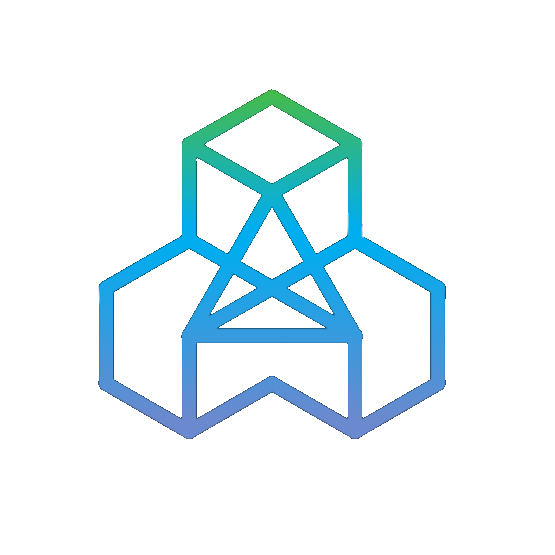
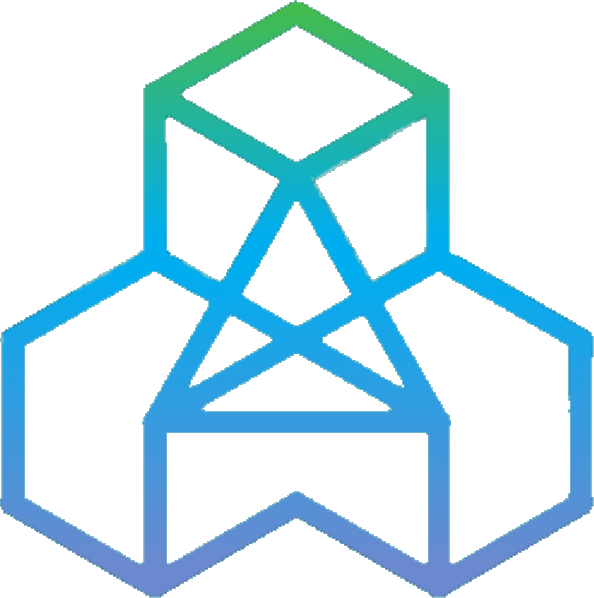
13.0
Added Background color and changed the colors of the logos. Added content to the section boxes.

diff --git a/css/MainStyles.css b/css/MainStyles.css
@@ -522,9 +522,10 @@ ul {
     }
     .header .logo {
         user-select: none;
-        width: 20%;
+        width: 17%;
         float: left;
         transition: .2s;
+        padding: 1%
     }
     .header .logo:hover {
         opacity: .8;
@@ -556,13 +557,15 @@ ul {
         overflow: hidden;
         transition: height .5s ease;
         font-size: 80%;
-        margin-top: 3.7rem;
         left: 0;
-        z-index: 1;
+        z-index: 2;
         top: 34px;
         height: 0;
         box-shadow: 5px 5px 10px rgb(160, 160, 160);
         font-weight: normal;
+    }
+    #submenu {
+        margin-top: 3.31rem;
     }
     ul li:hover > ul, ul li ul:hover {
         z-index: 1;
@@ -585,13 +588,13 @@ ul {
     .grid-container {
         display: grid;
         grid-template-columns: 1fr 1fr 1fr 1fr;
-        grid-template-rows: auto auto auto auto auto auto auto auto;
+        grid-template-rows: auto auto auto auto auto auto;
         overflow-wrap: break-word;
         position: relative;
     }
     .box {
         display: block;
-        padding: 10px;
+        padding: 10px 60px 10px 60px;
         background-color: rgb(207, 207, 207);
         overflow-wrap: break-word;
     }
@@ -607,54 +610,45 @@ ul {
         grid-column: 4;
         grid-row: 1;
     }
-    .about {
+    .space {
         grid-column: 1 / 5;
-        grid-row: 2 / 3;
+        grid-row: 2;
+        visibility: hidden;
+    }
+    .about {
+        grid-column: 2 / 4;
+        grid-row: 3;
     }
     .sec2 {
         grid-column: 2;
-        grid-row: 3;
+        grid-row: 4;
     }
     .sec3 {
         grid-column: 3;
-        grid-row: 3;
-    }
-    .sec4 {
-        grid-column: 2 / 4;
         grid-row: 4;
     }
-    .gallery {
+    .sec4 {
         grid-column: 1 / 5;
-        grid-row: 5; 
-    }
-    .sec5 {
-        grid-column: 2;
-        grid-row: 6;
-    }
-    .sec6 {
-        grid-column: 3;
-        grid-row: 6;
-    }
-    .sec7 {
-        grid-column: 2 / 4;
-        grid-row: 7;
+        grid-row: 5;
+        visibility: hidden;
     }
     .footer {
         grid-column: 1 / 5;
-        grid-row: 8;
+        grid-row: 6;
     }
 
     /* H1 */
     .h1 {
-        text-decoration: underline;
-        padding: 8% 20% 20% 20%;
+        padding: 12% 20% 16% 20%;
         text-align: center;
-        font-size: 400%;
-        color: rgb(0, 0, 0);
+        font-size: 500%;
         font-family: 'Capriola', sans-serif;
         animation-name: fade-in;
         animation-duration: 1s;
         position: relative;
+        background-color: rgb(114, 199, 199);
+        color: white;
+        text-shadow: .5px .5px 2px white;
     }
     @keyframes fade-in {
         from {top: 150px; opacity: 0;}
@@ -662,25 +656,45 @@ ul {
     }
     .img1, .img2 {
         position: relative;
-        top: 100px
+        top: 200px;
+        z-index: 1;
+    }
+    .img1 {
+        animation-name: fade-image;
+        animation-duration: 1s;
+        left: 50px
+    }
+    .img2 {
+        animation-name: fade-image2;
+        animation-duration: 1s;
+        right: 10px
+    }
+    @keyframes fade-image {
+        from {left: -350px; opacity: 0;}
+        to {left: 50px; opacity: 1;}
+    }
+    @keyframes fade-image2 {
+        from {right: -350px; opacity: 0;}
+        to {right: 10px; opacity: 1;}
+    }
+    .space hr {
+        margin: 50px
     }
     /* Boxes */
-    .about, .gallery {
+    .about {
         text-align: center;
         font-size: 300%;
         font-weight: bold;
+        background-color: rgb(92, 148, 175);
     }
     .about h2 {
-        margin: 3px 0
+        margin: 3px 0;
     }
-    .gallery h2 {
-        margin: 15% auto 0 auto
-    }
-    .about hr, .gallery hr {
-        width: 20%;
+    .about hr {
+        width: 30%;
         border: 0;
         border-top: 4px solid black;
-        margin: 0 auto 5% auto
+        margin: 0 auto 3% auto;
     }
     .section {
         text-align: center;
@@ -695,8 +709,22 @@ ul {
         visibility: visible;
         border: 0;
         border-top: 3px solid rgba(110, 110, 110, 0.733);
-        width: 50%;
+        width: 100%;
+        margin: 2% auto 3% auto
     }
+    .section p {
+        font-size: 60%;
+    }
+    .sec2 {
+        background-color: rgb(152, 190, 200)
+    }
+    .sec3 {
+        background-color: rgb(203, 221, 221);
+    }
+    .sec4 hr {
+        margin: 50px
+    }
+    
     /* Footer */
     .footer {
         background-color: rgb(66, 66, 66);

diff --git a/index.html b/index.html
@@ -17,7 +17,7 @@
                 document.getElementById("submenu").style.marginTop = "1.25rem";
               } else {
                 document.getElementById("header").style.fontSize = "225%";
-                document.getElementById("logo").style.width = "20%";
+                document.getElementById("logo").style.width = "17%";
                 document.getElementById("menu").style.top = "15px";
                 document.getElementById("submenu").style.marginTop = "3.7rem";
               }
@@ -44,48 +44,31 @@
         </header>
         <div class="grid-container">
             <div class="img1">
-                <img src="images/Capture.PNG" width="100%">
+                <img src="images/Capture.PNG" width="90%">
             </div>
             <div class="h1">
                 <h1>Hello</h1>
             </div>
             <div class="img2">
-                <img src="images/Capture.PNG" width="100%">
+                <img src="images/Capture.PNG" width="90%">
             </div>
             <div class="about">
                 <h2>About</h2>
                 <hr>
             </div>
             <div class="box section sec2">
-                <h2>About</h2>
+                <h2>Information</h2>
                 <hr>
+                <p>Hello. My name is Jared Lander. I am a student in web development at West-Mec. I can create websites in HTML and CSS for mobile and desktop websites.</p>
             </div>
             <div class="box section sec3">
-                <h2>Location</h2>
+                <h2>Experience</h2>
+                <hr>
+                <p>I have about 2 years of web development experience in HTML and CSS. I have taken a class in web development at Sandra Day O'Connor High School and a class in the West-Mec Coding program.</p>
+            </div>
+            <div class="sec4">
                 <hr>
             </div>
-            <div class="box section sec4">
-                <h2>Events</h2>
-                <hr>
-            </div>
-        </br>
-            <div class="gallery">
-                <h2>Gallery</h2>
-                <hr>
-            </div>
-        </br>
-        <div class="box section sec5">
-            <h2></h2>
-            <hr>
-        </div>
-        <div class="box section sec6">
-            <h2></h2>
-            <hr>
-        </div>
-        <div class="box section sec7">
-            <h2></h2>
-            <hr>
-        </div>
 
             <footer class="footer">
                 <h3>Contact</h3>

diff --git a/Gallery.html b/Gallery.html
@@ -18,7 +18,7 @@
               }
                else {
                 document.getElementById("header").style.fontSize = "225%";
-                document.getElementById("logo").style.width = "20%";
+                document.getElementById("logo").style.width = "17%";
                 document.getElementById("menu").style.top = "15px";
                 document.getElementById("submenu").style.marginTop = "3.7rem";
               }

diff --git a/css/Gallery.css b/css/Gallery.css
@@ -522,9 +522,10 @@ ul {
     }
     .header .logo {
         user-select: none;
-        width: 20%;
+        width: 17%;
         float: left;
         transition: .2s;
+        padding: 1%
     }
     .header .logo:hover {
         opacity: .8;
